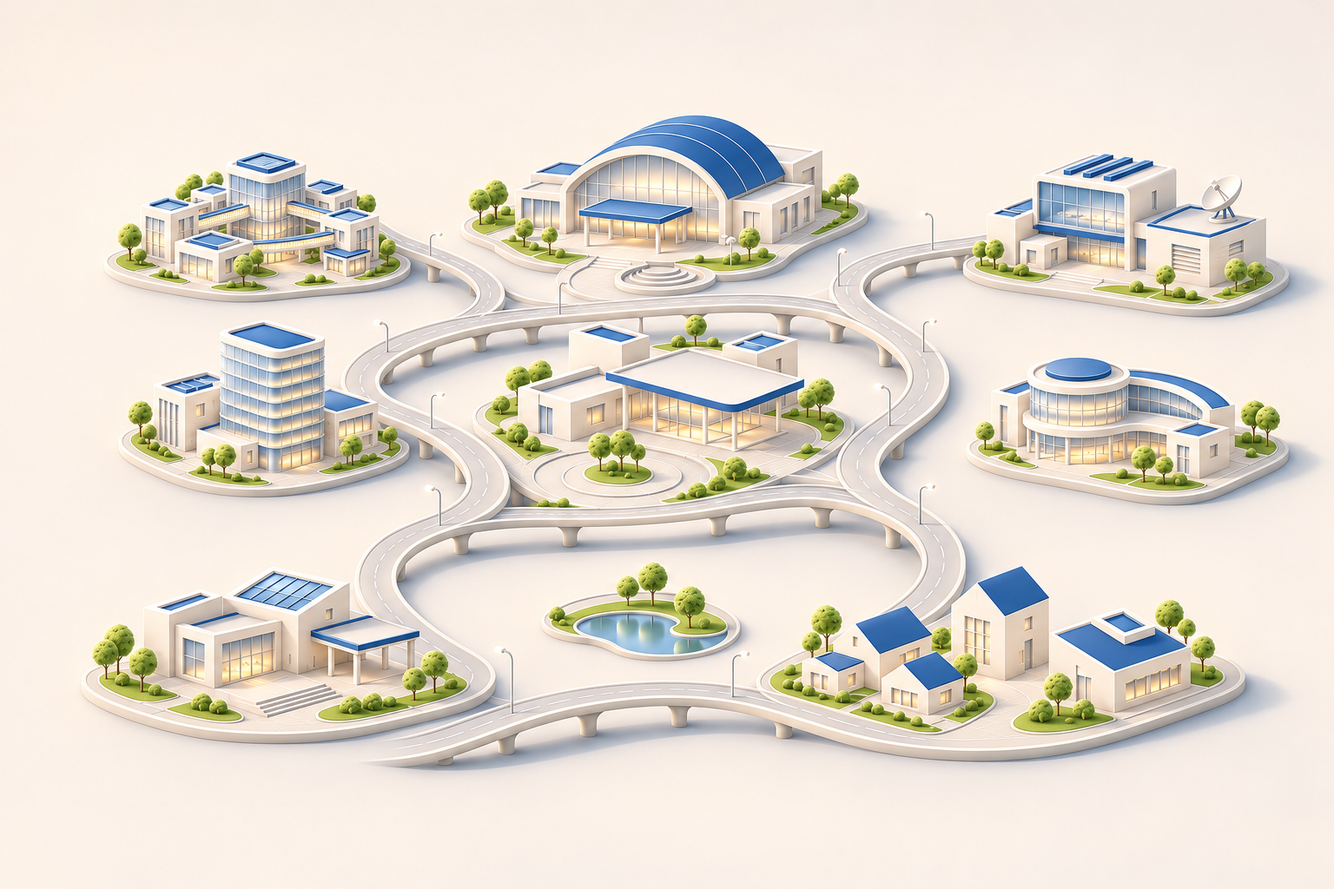
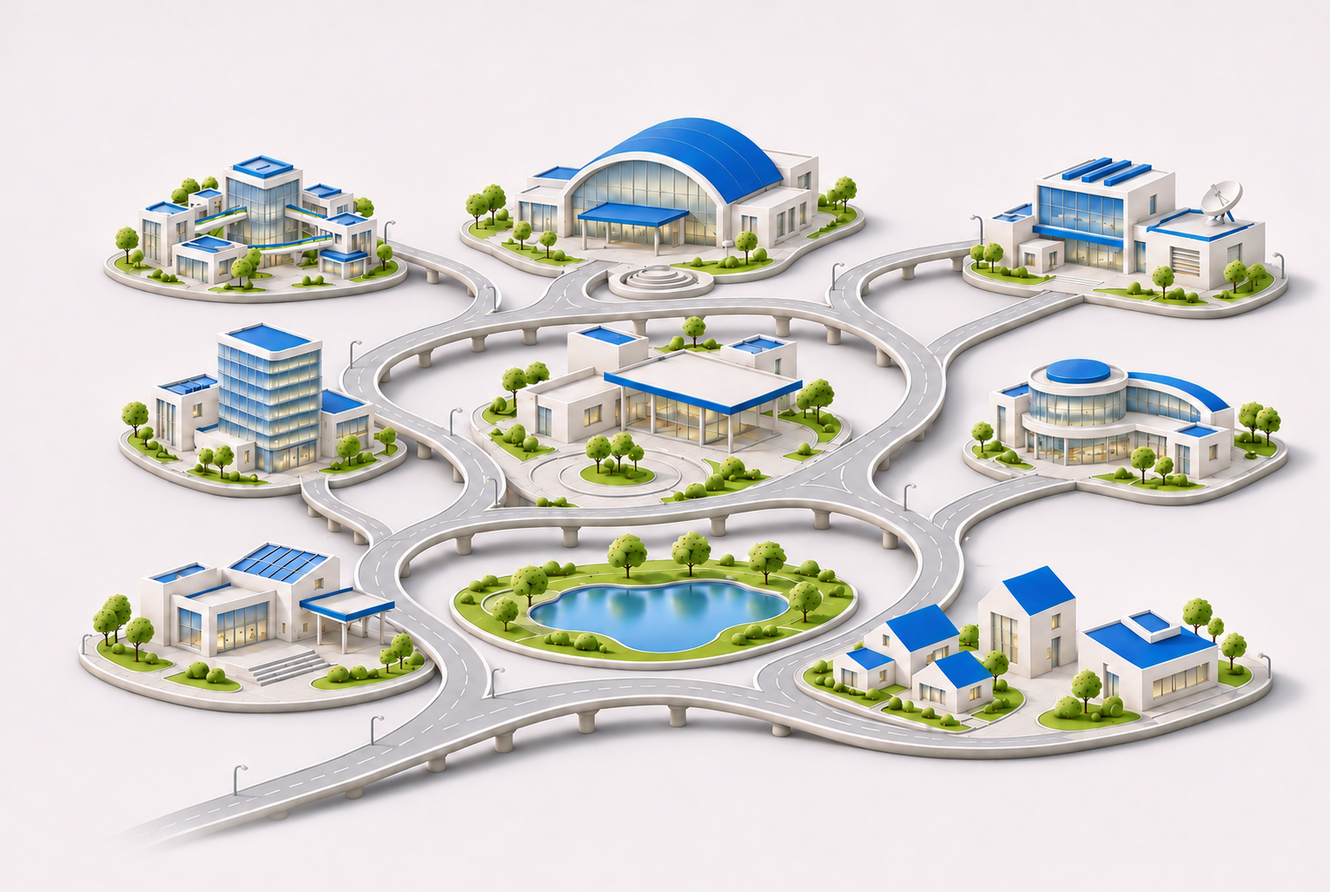
Add files via upload

diff --git a/assets/people-directory.js b/assets/people-directory.js
@@ -1,0 +1,1 @@
+window.PEOPLE_DIRECTORY = [{"name":"Aadila Patel","title":"Instructional Designer","areas":["Collaboration Networking + Product & Solutions Marketing"],"href":"collaboration-networking-product-solutions-marketing.html"},{"name":"Abdi Saeedabadi","title":"Routing, AI Infra & Unified Branch","areas":["Product Marketing Networking"],"href":"product-marketing-networking.html"},{"name":"Adam Cummings","title":"Developer","areas":["Web, Digital & Ops Team"],"href":"web-digital-ops-team.html"},{"name":"Adesuwa Avere","title":"Operations Coordinator","areas":["AMER GTM Field & Global Events"],"href":"amer-gtm-field-global-events.html"},{"name":"Aiko Yasuda","title":"Japan Marketing Manager","areas":["APJC WTG Marketing"],"href":"apjc-wtg-marketing.html"},{"name":"Akshara Giridhara","title":"QA Engineer","areas":["Web, Digital & Ops Team"],"href":"web-digital-ops-team.html"},{"name":"Albert Chiang","title":"Switching","areas":["Product Marketing Networking"],"href":"product-marketing-networking.html"},{"name":"Alex Kim","title":"PMM, API","areas":["Product Marketing Networking"],"href":"product-marketing-networking.html"},{"name":"Alexandra Scarpello","title":"Instructional Designer","areas":["Collaboration Networking + Product & Solutions Marketing"],"href":"collaboration-networking-product-solutions-marketing.html"},{"name":"Alisha Pinto","title":"WTG Marketing Operations Manager","areas":["EMEA Field Marketing"],"href":"emea-field-marketing.html"},{"name":"Amanda Crain","title":"Chief of Staff","areas":["Collaboration Networking + Product & Solutions Marketing"],"href":"collaboration-networking-product-solutions-marketing.html"},{"name":"Amrit Nijjer","title":"Wireless","areas":["Product Marketing Networking"],"href":"product-marketing-networking.html"},{"name":"Amy Newton","title":"Devices, CX, MSFT & Networking Marketing Lead","areas":["EMEA Field Marketing"],"href":"emea-field-marketing.html"},{"name":"Ana Leung","title":"Verticals, Industry, Competitive Marketing","areas":["Product Marketing Networking"],"href":"product-marketing-networking.html"},{"name":"Ana Nennig","title":"Marketplace, Dev & API","areas":["Product Marketing Networking"],"href":"product-marketing-networking.html"},{"name":"Andrew Pearson","title":"Director, Marketing","areas":["Integrated Marketing & GTM Strategy"],"href":"integrated-marketing-gtm-strategy.html"},{"name":"Andy Johnston","title":"Leader, Product Marketing","areas":["Collaboration Networking + Product & Solutions Marketing"],"href":"collaboration-networking-product-solutions-marketing.html"},{"name":"Anne Heitman","title":"Marketing Manager","areas":["AMER GTM Field & Global Events"],"href":"amer-gtm-field-global-events.html"},{"name":"Arnold Murray","title":"Leader, Learning Content","areas":["Collaboration Networking + Product & Solutions Marketing"],"href":"collaboration-networking-product-solutions-marketing.html"},{"name":"Ashley Taylor","title":"Marketing Manager","areas":["AMER GTM Field & Global Events"],"href":"amer-gtm-field-global-events.html"},{"name":"Bailee Marcum","title":"Leader, AMER Field Marketing","areas":["AMER GTM Field & Global Events"],"href":"amer-gtm-field-global-events.html"},{"name":"Bassam Khan","title":"VP, Product Marketing Networking","areas":["Product Marketing Networking"],"href":"product-marketing-networking.html"},{"name":"Bhushan Bhim Divale","title":"Developer","areas":["Web, Digital & Ops Team"],"href":"web-digital-ops-team.html"},{"name":"Blossom Furtado","title":"Director Marketing, WTG","areas":["EMEA Field Marketing"],"href":"emea-field-marketing.html"},{"name":"Bridget Wald","title":"Digital Marketing Manager","areas":["IIoT Revenue Marketing"],"href":"iiot-revenue-marketing.html"},{"name":"Brittany Lewis","title":"Global Events Manager","areas":["AMER GTM Field & Global Events"],"href":"amer-gtm-field-global-events.html"},{"name":"Bruce Hayes","title":"Program Lead (CTO)","areas":["Integrated Marketing & GTM Strategy"],"href":"integrated-marketing-gtm-strategy.html"},{"name":"Caitlin Barrett","title":"Marketing Manager","areas":["Integrated Marketing & GTM Strategy"],"href":"integrated-marketing-gtm-strategy.html"},{"name":"Caitlin Lacey","title":"Director, Product Marketing","areas":["Collaboration Networking + Product & Solutions Marketing"],"href":"collaboration-networking-product-solutions-marketing.html"},{"name":"Caroline Reilly","title":"Instructional Designer","areas":["Collaboration Networking + Product & Solutions Marketing"],"href":"collaboration-networking-product-solutions-marketing.html"},{"name":"Caroline Wright","title":"Director, Learning & Development","areas":["Collaboration Networking + Product & Solutions Marketing"],"href":"collaboration-networking-product-solutions-marketing.html"},{"name":"Chris Bowman","title":"Sr Director of Marketing APJC","areas":["APJC WTG Marketing"],"href":"apjc-wtg-marketing.html"},{"name":"Christina Gonzalez","title":"Event Marketing","areas":["IIoT Revenue Marketing"],"href":"iiot-revenue-marketing.html"},{"name":"Christina Torok (WA)","title":"Director, Product Marketing","areas":["Collaboration Networking + Product & Solutions Marketing"],"href":"collaboration-networking-product-solutions-marketing.html"},{"name":"Cindy Yeo (CO)","title":"Collaboration Marketing Manager (Suite & CX) · APJC","areas":["APJC WTG Marketing"],"href":"apjc-wtg-marketing.html"},{"name":"Clare Davis","title":"Webex Trainer","areas":["Collaboration Networking + Product & Solutions Marketing"],"href":"collaboration-networking-product-solutions-marketing.html"},{"name":"Courtenay Godshall","title":"Director, Product Marketing","areas":["Collaboration Networking + Product & Solutions Marketing"],"href":"collaboration-networking-product-solutions-marketing.html"},{"name":"Craig Burnham","title":"VP · Product Marketing, Collaboration Solutions Marketing, FPW","areas":["Collaboration Networking + Product & Solutions Marketing"],"href":"collaboration-networking-product-solutions-marketing.html"},{"name":"Cristal Marquez","title":"Marketing Manager","areas":["Integrated Marketing & GTM Strategy"],"href":"integrated-marketing-gtm-strategy.html"},{"name":"Dan Gallant","title":"Instructional Designer","areas":["Collaboration Networking + Product & Solutions Marketing"],"href":"collaboration-networking-product-solutions-marketing.html"},{"name":"Dana Ciarlariello","title":"Marketing Ops Manager","areas":["Web, Digital & Ops Team"],"href":"web-digital-ops-team.html"},{"name":"David Puzas","title":"ThousandEyes & Assurance","areas":["Product Marketing Networking"],"href":"product-marketing-networking.html"},{"name":"Derek Stevens","title":"Marketing Manager","areas":["Integrated Marketing & GTM Strategy"],"href":"integrated-marketing-gtm-strategy.html"},{"name":"Devin Creer","title":"Routing, Security & PQC","areas":["Product Marketing Networking"],"href":"product-marketing-networking.html"},{"name":"Dik Whitten","title":"Marketing Manager","areas":["Collaboration Networking + Product & Solutions Marketing"],"href":"collaboration-networking-product-solutions-marketing.html"},{"name":"Dominika Karpiuk","title":"Business Development Rep (CTO)","areas":["Integrated Marketing & GTM Strategy"],"href":"integrated-marketing-gtm-strategy.html"},{"name":"Donna Wyvill","title":"Experience Admin","areas":["Collaboration Networking + Product & Solutions Marketing"],"href":"collaboration-networking-product-solutions-marketing.html"},{"name":"Donnell Fields","title":"Business Development Manager","areas":["Integrated Marketing & GTM Strategy"],"href":"integrated-marketing-gtm-strategy.html"},{"name":"Elizabeth Prince","title":"Marketing Manager","areas":["AMER GTM Field & Global Events"],"href":"amer-gtm-field-global-events.html"},{"name":"Emanuel Nascimento","title":"Instructional Designer","areas":["Collaboration Networking + Product & Solutions Marketing"],"href":"collaboration-networking-product-solutions-marketing.html"},{"name":"Emily Kasman","title":"Transportation & Industrial Security","areas":["Product Marketing Networking"],"href":"product-marketing-networking.html"},{"name":"Eric Kim","title":"PMM, Industrial AI","areas":["Product Marketing Networking"],"href":"product-marketing-networking.html"},{"name":"Erin Hatfield","title":"PMM, Enablement and Launch Ops","areas":["Product Marketing Networking"],"href":"product-marketing-networking.html"},{"name":"Fabien Maisl","title":"Product Marketing Leader","areas":["Product Marketing Networking"],"href":"product-marketing-networking.html"},{"name":"Gabriel Geller","title":"Switching · On leave","areas":["Product Marketing Networking"],"href":"product-marketing-networking.html"},{"name":"George Mokdessi","title":"Product Marketing Manager","areas":["Collaboration Networking + Product & Solutions Marketing"],"href":"collaboration-networking-product-solutions-marketing.html"},{"name":"Gillian Harris","title":"(Mat Cover) Senior Marketing Manager","areas":["EMEA Field Marketing"],"href":"emea-field-marketing.html"},{"name":"Gowreeswaran Chandrasekaran","title":"UI Engineer","areas":["Web, Digital & Ops Team"],"href":"web-digital-ops-team.html"},{"name":"Graham Williams","title":"Business Intelligence Manager","areas":["Web, Digital & Ops Team"],"href":"web-digital-ops-team.html"},{"name":"Grant Shirk (CA)","title":"Sr. Director · Product Marketing, Networking PINs","areas":["Product Marketing Networking"],"href":"product-marketing-networking.html"},{"name":"György Gyarmati","title":"Product Marketing Manager","areas":["Collaboration Networking + Product & Solutions Marketing"],"href":"collaboration-networking-product-solutions-marketing.html"},{"name":"Hayley Miller","title":"Field Marketing Manager","areas":["AMER GTM Field & Global Events"],"href":"amer-gtm-field-global-events.html"},{"name":"Henry Teichert","title":"Industrial Routing and Utilities","areas":["Product Marketing Networking"],"href":"product-marketing-networking.html"},{"name":"Ian Michiels","title":"Sr. Director, WTG Marketing Strategy & GTM Execution","areas":["Integrated Marketing & GTM Strategy"],"href":"integrated-marketing-gtm-strategy.html"},{"name":"Ileana Flores","title":"Regional Execution Lead","areas":["AMER GTM Field & Global Events"],"href":"amer-gtm-field-global-events.html"},{"name":"Iringa Triplett","title":"Webinar Program","areas":["Integrated Marketing & GTM Strategy"],"href":"integrated-marketing-gtm-strategy.html"},{"name":"Isobel Trimble","title":"Digital Marketing","areas":["Web, Digital & Ops Team"],"href":"web-digital-ops-team.html"},{"name":"James Williams","title":"Leader, Web Strategy (Webex.com, CPaaS) Digital Marketing · UK","areas":["Web, Digital & Ops Team"],"href":"web-digital-ops-team.html"},{"name":"Jamie Bissonnette","title":"Instructional Designer","areas":["Collaboration Networking + Product & Solutions Marketing"],"href":"collaboration-networking-product-solutions-marketing.html"},{"name":"Jeff Hubbard","title":"Leader, Learning Experience","areas":["Collaboration Networking + Product & Solutions Marketing"],"href":"collaboration-networking-product-solutions-marketing.html"},{"name":"Jennifer McHugh","title":"Customer Marketing","areas":["IIoT Revenue Marketing"],"href":"iiot-revenue-marketing.html"},{"name":"Jessica Smith","title":"Director, Product Marketing (CCaaS)","areas":["Collaboration Networking + Product & Solutions Marketing"],"href":"collaboration-networking-product-solutions-marketing.html"},{"name":"Jill Purse","title":"Product Marketing Manager (Networking)","areas":["Collaboration Networking + Product & Solutions Marketing"],"href":"collaboration-networking-product-solutions-marketing.html"},{"name":"Joanna Cappalonga","title":"Networking Events Manager","areas":["EMEA Field Marketing"],"href":"emea-field-marketing.html"},{"name":"Joanna Johnson","title":"Global Events Manager","areas":["AMER GTM Field & Global Events"],"href":"amer-gtm-field-global-events.html"},{"name":"Joe Panzarella","title":"Marketing Manager","areas":["AMER GTM Field & Global Events"],"href":"amer-gtm-field-global-events.html"},{"name":"John Ferreira","title":"Business Development Manager","areas":["Integrated Marketing & GTM Strategy"],"href":"integrated-marketing-gtm-strategy.html"},{"name":"John Filitz","title":"Industrial Security","areas":["Product Marketing Networking"],"href":"product-marketing-networking.html"},{"name":"John Paccio","title":"Leader, Platform & Insights · San Jose","areas":["Web, Digital & Ops Team"],"href":"web-digital-ops-team.html"},{"name":"Jonathan Zarkower","title":"Employee Digital Experience & Competitive Intelligence","areas":["Product Marketing Networking"],"href":"product-marketing-networking.html"},{"name":"Joseph Jenkins","title":"Instructional Designer","areas":["Collaboration Networking + Product & Solutions Marketing"],"href":"collaboration-networking-product-solutions-marketing.html"},{"name":"Josh van Tonder","title":"Director, Wireless","areas":["Product Marketing Networking"],"href":"product-marketing-networking.html"},{"name":"Joyce Chuang","title":"Director, Marketing","areas":["Integrated Marketing & GTM Strategy"],"href":"integrated-marketing-gtm-strategy.html"},{"name":"Julia Hart","title":"Digital, ABX & Partner Lead","areas":["AMER GTM Field & Global Events"],"href":"amer-gtm-field-global-events.html"},{"name":"Julie Berg","title":"Director, AMER GTM Field & Global Events","areas":["AMER GTM Field & Global Events"],"href":"amer-gtm-field-global-events.html"},{"name":"Juliet Friedman","title":"Chief of Staff","areas":["Product Marketing Networking"],"href":"product-marketing-networking.html"},{"name":"Karen Hobert","title":"Program Manager","areas":["Collaboration Networking + Product & Solutions Marketing"],"href":"collaboration-networking-product-solutions-marketing.html"},{"name":"Katie Sneddon","title":"WTG Events Manager","areas":["EMEA Field Marketing"],"href":"emea-field-marketing.html"},{"name":"Kendys Carrizo","title":"Executive Assistant","areas":["APJC WTG Marketing","AMER GTM Field & Global Events","EMEA Field Marketing","IIoT Revenue Marketing","Integrated Marketing & GTM Strategy","Web, Digital & Ops Team","Collaboration Networking + Product & Solutions Marketing"],"href":"apjc-wtg-marketing.html"},{"name":"Kiran Ghodgegaonkar","title":"Director, Routing","areas":["Product Marketing Networking"],"href":"product-marketing-networking.html"},{"name":"Kris Rangarajan","title":"AgenticOps & Thought Leadership","areas":["Collaboration Networking + Product & Solutions Marketing"],"href":"collaboration-networking-product-solutions-marketing.html"},{"name":"Kristin Cowhey","title":"Adoption Programs, User Group & Experts","areas":["Integrated Marketing & GTM Strategy"],"href":"integrated-marketing-gtm-strategy.html"},{"name":"Laura Hamill","title":"Leader, Webex Training","areas":["Collaboration Networking + Product & Solutions Marketing"],"href":"collaboration-networking-product-solutions-marketing.html"},{"name":"Laura Nelson","title":"Project / Program Management","areas":["Integrated Marketing & GTM Strategy"],"href":"integrated-marketing-gtm-strategy.html"},{"name":"Lesly Anzo","title":"Wireless, Sensors","areas":["Product Marketing Networking"],"href":"product-marketing-networking.html"},{"name":"Lindsey Rein","title":"Launches Marketing (Collab)","areas":["Collaboration Networking + Product & Solutions Marketing"],"href":"collaboration-networking-product-solutions-marketing.html"},{"name":"Lisa Vogel","title":"Leader, Global Events Manager","areas":["AMER GTM Field & Global Events"],"href":"amer-gtm-field-global-events.html"},{"name":"Lisa Young","title":"Copy Editor / Writer","areas":["Integrated Marketing & GTM Strategy"],"href":"integrated-marketing-gtm-strategy.html"},{"name":"Magali Mitaux","title":"South WTG Marketing Lead","areas":["EMEA Field Marketing"],"href":"emea-field-marketing.html"},{"name":"Manish Kumar","title":"Lead Development Rep · APJC IW","areas":["APJC WTG Marketing"],"href":"apjc-wtg-marketing.html"},{"name":"Manu Parhar","title":"Director, Product Marketing","areas":["Collaboration Networking + Product & Solutions Marketing"],"href":"collaboration-networking-product-solutions-marketing.html"},{"name":"Marie Morkeh-Yamson","title":"Networking Events Manager","areas":["EMEA Field Marketing"],"href":"emea-field-marketing.html"},{"name":"Marisa Rutti","title":"Product Marketing Manager","areas":["Collaboration Networking + Product & Solutions Marketing"],"href":"collaboration-networking-product-solutions-marketing.html"},{"name":"Mark Neath","title":"Leader, Business Development","areas":["Integrated Marketing & GTM Strategy"],"href":"integrated-marketing-gtm-strategy.html"},{"name":"Marte Sannesmoen","title":"Product Marketing Manager","areas":["Collaboration Networking + Product & Solutions Marketing"],"href":"collaboration-networking-product-solutions-marketing.html"},{"name":"Megan Smith","title":"Leader, Marketing Analytics · San Jose","areas":["Web, Digital & Ops Team"],"href":"web-digital-ops-team.html"},{"name":"Meghana Dayananda","title":"Developer","areas":["Web, Digital & Ops Team"],"href":"web-digital-ops-team.html"},{"name":"Melody Leatherbury","title":"Marketing Manager","areas":["Collaboration Networking + Product & Solutions Marketing"],"href":"collaboration-networking-product-solutions-marketing.html"},{"name":"Miriam Kung","title":"Networking Platforms","areas":["Product Marketing Networking"],"href":"product-marketing-networking.html"},{"name":"Molita Sorishochamaki","title":"Product Marketing Manager","areas":["Collaboration Networking + Product & Solutions Marketing"],"href":"collaboration-networking-product-solutions-marketing.html"},{"name":"Monisha Alfaro","title":"Licensing & Workflows","areas":["Product Marketing Networking"],"href":"product-marketing-networking.html"},{"name":"Natalia Lysenko","title":"Germany & North WTG Marketing Lead","areas":["EMEA Field Marketing"],"href":"emea-field-marketing.html"},{"name":"Natasha Patel","title":"MEA WTG Marketing Lead","areas":["EMEA Field Marketing"],"href":"emea-field-marketing.html"},{"name":"Nicholo Jallores","title":"Collaboration Marketing Manager","areas":["EMEA Field Marketing"],"href":"emea-field-marketing.html"},{"name":"Nidhima Chadha","title":"Project / Program Management","areas":["Integrated Marketing & GTM Strategy"],"href":"integrated-marketing-gtm-strategy.html"},{"name":"Nikita Singh","title":"CX / EN Events lead","areas":["APJC WTG Marketing"],"href":"apjc-wtg-marketing.html"},{"name":"Olivia Vickers","title":"Revenue Marketing Leader, IIoT · Leads four focus areas","areas":["IIoT Revenue Marketing"],"href":"iiot-revenue-marketing.html"},{"name":"Patricia Costa","title":"Industrial Wireless, Oil & Gas","areas":["Product Marketing Networking"],"href":"product-marketing-networking.html"},{"name":"Paul Trauberman","title":"Business Development Rep (CTO)","areas":["Integrated Marketing & GTM Strategy"],"href":"integrated-marketing-gtm-strategy.html"},{"name":"Paula Goldrich","title":"Leader, Marketing (CPaaS)","areas":["Collaboration Networking + Product & Solutions Marketing"],"href":"collaboration-networking-product-solutions-marketing.html"},{"name":"Pradeep Dasarathan","title":"Sr. Director – Web & Digital Marketing, Collaboration","areas":["Web, Digital & Ops Team"],"href":"web-digital-ops-team.html"},{"name":"Preethy Padmanabhan (CA)","title":"Director, Industrial","areas":["Product Marketing Networking"],"href":"product-marketing-networking.html"},{"name":"Punith C S","title":"Developer","areas":["Web, Digital & Ops Team"],"href":"web-digital-ops-team.html"},{"name":"Rachel Parkins","title":"Collaboration Marketing Manager","areas":["EMEA Field Marketing"],"href":"emea-field-marketing.html"},{"name":"Rahul Vilas Kulkarni","title":"Adobe Architect & Software Engineer","areas":["Web, Digital & Ops Team"],"href":"web-digital-ops-team.html"},{"name":"Ranjithreddy Gutha","title":"Localization & MarTech Developer","areas":["Web, Digital & Ops Team"],"href":"web-digital-ops-team.html"},{"name":"Rhys Jones","title":"Digital Marketing & Marketing Ops","areas":["Web, Digital & Ops Team"],"href":"web-digital-ops-team.html"},{"name":"Robyn Rawlings","title":"Sr. Director, Campaigns, Content & Performance Marketing","areas":["Integrated Marketing & GTM Strategy"],"href":"integrated-marketing-gtm-strategy.html"},{"name":"Roslyn Wong (IWE)","title":"Intelligent Workplaces Marketing Manager · APJC","areas":["APJC WTG Marketing"],"href":"apjc-wtg-marketing.html"},{"name":"Russ LaFleur","title":"Marketing Manager","areas":["AMER GTM Field & Global Events"],"href":"amer-gtm-field-global-events.html"},{"name":"Saleema Syed","title":"VP, GTM & Growth Marketing","areas":["APJC WTG Marketing","AMER GTM Field & Global Events","EMEA Field Marketing","IIoT Revenue Marketing","Integrated Marketing & GTM Strategy","Web, Digital & Ops Team"],"href":"apjc-wtg-marketing.html"},{"name":"Sam Watson","title":"Product Marketing Manager","areas":["Collaboration Networking + Product & Solutions Marketing"],"href":"collaboration-networking-product-solutions-marketing.html"},{"name":"Samantha Johnson","title":"Lead, Field Marketing","areas":["AMER GTM Field & Global Events"],"href":"amer-gtm-field-global-events.html"},{"name":"Sanjana Kumari","title":"Lead Development Rep · APJC CX / Calling / Suite","areas":["APJC WTG Marketing"],"href":"apjc-wtg-marketing.html"},{"name":"Savanna Simmank","title":"Brand Marketing","areas":["IIoT Revenue Marketing"],"href":"iiot-revenue-marketing.html"},{"name":"Savannah Ober","title":"Chief of Staff","areas":["APJC WTG Marketing","AMER GTM Field & Global Events","EMEA Field Marketing","IIoT Revenue Marketing","Integrated Marketing & GTM Strategy","Web, Digital & Ops Team"],"href":"apjc-wtg-marketing.html"},{"name":"Scott Edwards","title":"Director, Solutions & Customer Advocacy","areas":["Collaboration Networking + Product & Solutions Marketing"],"href":"collaboration-networking-product-solutions-marketing.html"},{"name":"Shelley Staub (EN)","title":"Networking Marketing Manager · APJC","areas":["APJC WTG Marketing"],"href":"apjc-wtg-marketing.html"},{"name":"Shilpi Sneha","title":"Product Marketing Manager (Networking)","areas":["Collaboration Networking + Product & Solutions Marketing"],"href":"collaboration-networking-product-solutions-marketing.html"},{"name":"Shristi Singh","title":"APJC Ops and lead acceleration","areas":["APJC WTG Marketing"],"href":"apjc-wtg-marketing.html"},{"name":"Silva Umarova","title":"Project Manager","areas":["Web, Digital & Ops Team"],"href":"web-digital-ops-team.html"},{"name":"Sophia Hsieh","title":"Switching","areas":["Product Marketing Networking"],"href":"product-marketing-networking.html"},{"name":"Srisha Permude","title":"India Marketing and Demand Centre Manager · APJC","areas":["APJC WTG Marketing"],"href":"apjc-wtg-marketing.html"},{"name":"Sumeet Singh","title":"APJC LDR Manager · Lead Development Team","areas":["APJC WTG Marketing"],"href":"apjc-wtg-marketing.html"},{"name":"Summer Faruqi","title":"Switching","areas":["Product Marketing Networking"],"href":"product-marketing-networking.html"},{"name":"Sunilkumar Nejakar","title":"Digital Marketing Manager","areas":["IIoT Revenue Marketing"],"href":"iiot-revenue-marketing.html"},{"name":"Susan Parrish","title":"Webex Trainer","areas":["Collaboration Networking + Product & Solutions Marketing"],"href":"collaboration-networking-product-solutions-marketing.html"},{"name":"Tash Gardner","title":"UK&I WTG Marketing Lead","areas":["EMEA Field Marketing"],"href":"emea-field-marketing.html"},{"name":"Taylor Uptagrafft","title":"Strategic Program Lead","areas":["AMER GTM Field & Global Events"],"href":"amer-gtm-field-global-events.html"},{"name":"Tenev Takahashi","title":"Product Marketing Manager","areas":["Collaboration Networking + Product & Solutions Marketing"],"href":"collaboration-networking-product-solutions-marketing.html"},{"name":"Thomas Clavel","title":"Director, Switching","areas":["Product Marketing Networking"],"href":"product-marketing-networking.html"},{"name":"Tijana Marjanovic","title":"WTG Events Manager","areas":["EMEA Field Marketing"],"href":"emea-field-marketing.html"},{"name":"Tim Colegate-Smith","title":"Business Development Manager","areas":["Integrated Marketing & GTM Strategy"],"href":"integrated-marketing-gtm-strategy.html"},{"name":"Tina Kuan","title":"Leader, Marketing","areas":["Integrated Marketing & GTM Strategy"],"href":"integrated-marketing-gtm-strategy.html"},{"name":"Tory Elliot","title":"Lifecycle Marketing","areas":["IIoT Revenue Marketing"],"href":"iiot-revenue-marketing.html"},{"name":"Vanesa Melendez","title":"Webex Trainer","areas":["Collaboration Networking + Product & Solutions Marketing"],"href":"collaboration-networking-product-solutions-marketing.html"},{"name":"Vanessa Garcia","title":"Executive Assistant","areas":["Integrated Marketing & GTM Strategy","Product Marketing Networking"],"href":"integrated-marketing-gtm-strategy.html"},{"name":"Vibha Khosla","title":"Lead Development Rep · APJC CX / Calling / Suite","areas":["APJC WTG Marketing"],"href":"apjc-wtg-marketing.html"},{"name":"Vijay Neelakandan","title":"Leader, Web & Marketing Ops · San Jose","areas":["Web, Digital & Ops Team"],"href":"web-digital-ops-team.html"},{"name":"Warrne Ham","title":"Business Development Rep (CTO)","areas":["Integrated Marketing & GTM Strategy"],"href":"integrated-marketing-gtm-strategy.html"},{"name":"Yamini Prashar","title":"Lead Development Rep · APJC CX / Calling / Suite","areas":["APJC WTG Marketing"],"href":"apjc-wtg-marketing.html"},{"name":"Yeshima Singh","title":"IWE Events Manager","areas":["EMEA Field Marketing"],"href":"emea-field-marketing.html"},{"name":"Yukako Muramatsu","title":"Asia Field Marketing Manager (GC / KR / ASEAN)","areas":["APJC WTG Marketing"],"href":"apjc-wtg-marketing.html"},{"name":"Yvonne deFuria","title":"Global Events Manager","areas":["AMER GTM Field & Global Events"],"href":"amer-gtm-field-global-events.html"},{"name":"Zijin Lim (CO/EN)","title":"Regional Product & Solutions Marketing Leader · APJC","areas":["APJC WTG Marketing"],"href":"apjc-wtg-marketing.html"}];

diff --git a/assets/team-maps.js b/assets/team-maps.js
@@ -229,4 +229,18 @@
   search.addEventListener('input', update);
   clear.addEventListener('click', () => { search.value = ''; search.focus(); update(); });
   reset.addEventListener('click', () => { search.value = ''; update(); search.focus(); });
+  const pageParams = new URLSearchParams(window.location.search);
+  const initialQuery = pageParams.has('person') ? '' : pageParams.get('q');
+  if (initialQuery) search.value = initialQuery;
+  update();
+  const requestedPerson = new URLSearchParams(window.location.search).get('person');
+  if (requestedPerson) {
+    const normalizeName = value => value.normalize('NFD').replace(/[\u0300-\u036f]/g, '').trim().toLocaleLowerCase();
+    const targetName = normalizeName(requestedPerson);
+    const targetCard = cards.find(card => !card.classList.contains('hidden-by-search') && normalizeName(readCard(card).name) === targetName);
+    if (targetCard) {
+      targetCard.scrollIntoView({ block: 'center' });
+      openDirectory(targetCard);
+    }
+  }
 })();
